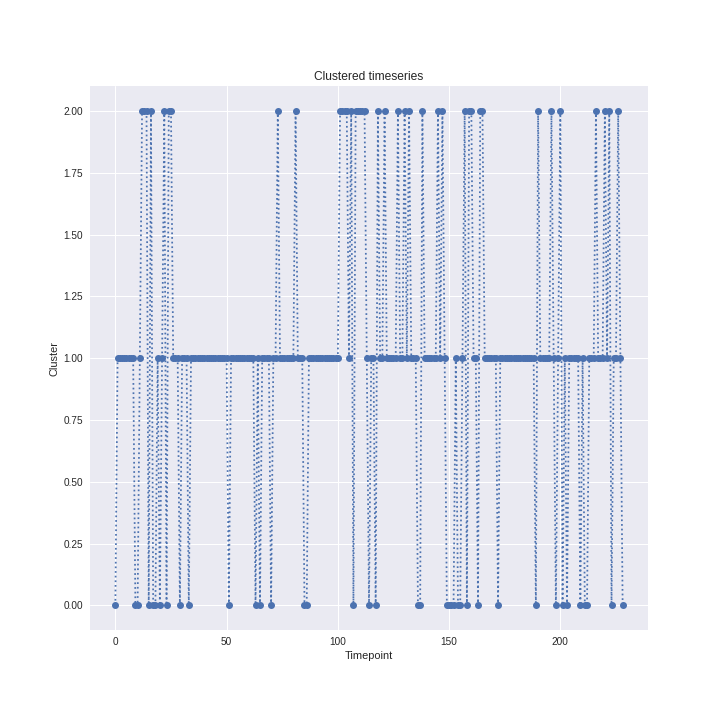
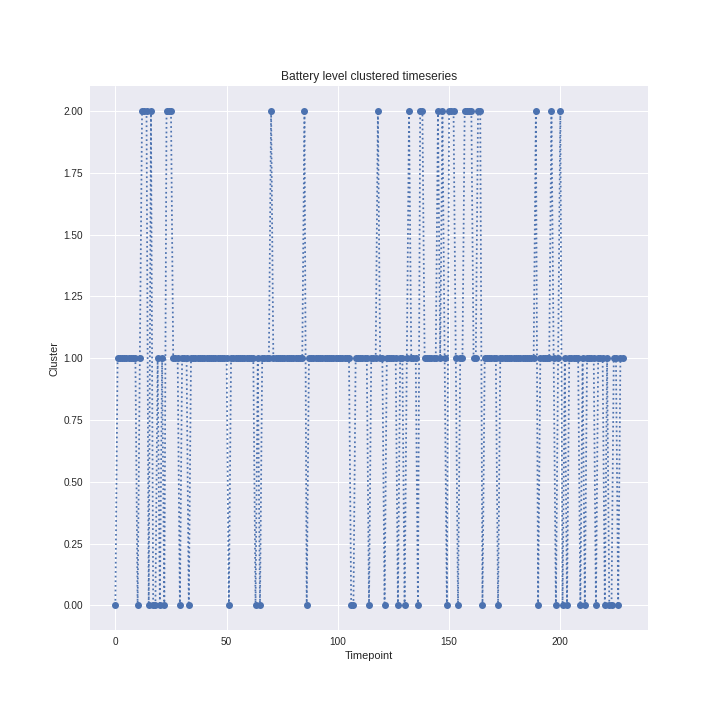
02032021

diff --git a/Source/oura_example.py b/Source/oura_example.py
@@ -552,9 +552,10 @@ def main():
     active_df = pd.DataFrame(data = res3.observed - res3.trend,    # values
                             index = result.index,   # 1st column as index
                             columns = ['active'])
-    
+    #%%
+    result = df
     x = result.values #returns a numpy array
-    min_max_scaler = preprocessing.MinMaxScaler()
+    min_max_scaler = MinMaxScaler()
     x_scaled = min_max_scaler.fit_transform(x)
     
     rezult = pd.DataFrame(data = x_scaled,    # values
@@ -562,7 +563,7 @@ def main():
                           columns = result.columns)
     
     
-    
+    #%%
     for i in range(rezult.shape[1]):
         fig,ax = plt.subplots(1,1,figsize=(10,10))
         rezult[['negative_rs','positive_rs']].rolling(14).mean().plot(marker='.',linestyle='none',ax=ax)
@@ -822,36 +823,51 @@ plt.plot(xf, 2.0/N * np.abs(yf[0:N//2]))
 plt.grid()
 
 plt.show()
-#%%
+#%% JOINTPLOTS ARE HERE!!!!
+'''
 fig, ax = plt.subplots(1,1,figsize=(10,10))
 sns.regplot(x = "positive_rs", 
             y = "negative_rs",  
             data = df,
             ax=ax) 
 plt.show()
+'''
+#neg_comb = [('negative',i) for i in rezult.columns.to_list()]
+#pos_comb = [('positive',i) for i in rezult.columns.to_list()]
+pos_comb = [('positive','norm_day')]
 
-fig, ax = plt.subplots(1,1,figsize=(10,10))
-graph = sns.jointplot(data = rezult,
-                      x = 'negative_rs', 
-                      y = 'Awake Time',  
-                      kind="reg")
+for comb in pos_comb:
+    X = comb[1]
+    Y = comb[0]
+    
+    fig, ax = plt.subplots(1,1,figsize=(15,15))
+    graph = sns.jointplot(data = rezult[7:-7].diff().fillna(0),
+                          x = X, 
+                          y = Y,  
+                          kind="reg",
+                          )
+    
+    graph.fig.suptitle("{} vs. {} regression plot".format(X,Y))
+    #graph.ax_joint.collections[0].set_alpha(0)
+    graph.fig.tight_layout()
+    graph.fig.subplots_adjust(top=0.95) # Reduce plot to make room
+    r, p = stats.pearsonr(rezult[X][7:-7].diff().fillna(0),rezult[Y][7:-7].diff().fillna(0))
+    
+    # if you choose to write your own legend, then you should adjust the properties then
+    phantom, = graph.ax_joint.plot([], [], linestyle="", alpha=0)
+    # here graph is not a ax but a joint grid, so we access the axis through ax_joint method
+    
+    graph.ax_joint.legend([phantom],['r={:2f}, p={:2f}'.format(r,p)])
+    plt.show()
 
-r, p = stats.pearsonr(df.negative_rs.fillna(0), df['Awake Time'].fillna(0))
-
-# if you choose to write your own legend, then you should adjust the properties then
-phantom, = graph.ax_joint.plot([], [], linestyle="", alpha=0)
-# here graph is not a ax but a joint grid, so we access the axis through ax_joint method
-
-graph.ax_joint.legend([phantom],['r={:2f}, p={:2f}'.format(r,p)])
-plt.show()
-
+'''
 fig, ax = plt.subplots(1,1,figsize=(10,10))
 sns.jointplot(data = df,
               x = 'positive_rs', 
               y = 'negative_rs',  
               kind="reg").annotate(stats.pearsonr)
 plt.show()
-
+'''
 #%% Cross correlation function`???
 
 def ccf(x, y, lag_max = 100):
@@ -965,7 +981,7 @@ test_df = pd.DataFrame(data = x_scaled,    # values
 
 test_df['battery_cluster'] = clusters
 filt = (clusters == 1).astype(int)
-test_df['norm_day'] = filt
+rezult['norm_day'] = filt
 
 # fix this!!!
 test_df['bat_stab'] = stab

diff --git a/Source/Analysis/process_battery.py b/Source/Analysis/process_battery.py
@@ -23,7 +23,7 @@ import pandas as pd
 
 # Local application import
 from Source.Analysis.calculate_similarity import calculate_similarity
-from Source.Analysis.calculate_novelty import compute_novelty
+from Source.Analysis.calculate_novelty import compute_novelty, compute_stability
 from Source.Analysis.decompose_timeseries import STL_decomposition#, detect_steps
 from Source.Analysis.plot_similarity import plot_similarity
 from Source.Analysis.cluster_timeseries import cluster_timeseries
